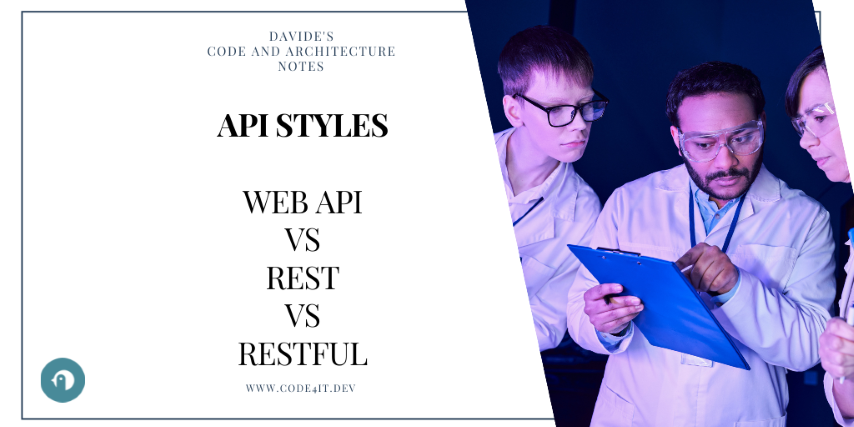
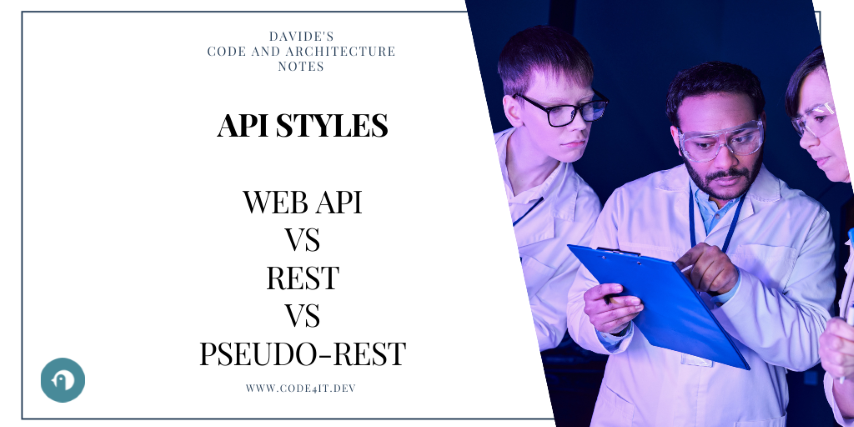
Fine bozza

Changed region(s): [[0.2131, 0.7916, 0.4871, 0.8525]]

diff --git a/content/architecture-note/013-webapi-vs-rest-vs-restful/index.md b/content/architecture-note/013-webapi-vs-rest-vs-restful/index.md
@@ -1,22 +1,25 @@
 ---
-title: "Davide's Code and Architecture Notes - Web APIs vs REST APIs vs RESTful APIs"
-date: 2024-07-23
-url: /architecture-notes/webapi-vs-rest-vs-restful
+title: "Davide's Code and Architecture Notes - Web APIs vs REST APIs vs pseudo-REST APIs"
+date: 2024-07-26
+url: /architecture-notes/webapi-vs-rest-vs-pseudo-rest
 draft: false
 categories:
-  - Code and Architecture Notes
+ - Code and Architecture Notes
 tags:
-  - Software Architecture
-  - API
+ - Software Architecture
+ - API
+ - REST
 toc: true
-summary: "When describing a web service, people often use the wrong terms. Are you really creating a REST API if all your operations are executed via POST?"
+summary: "When describing a web service, people often use the wrong terms. Are you really creating a REST API, or is it some sort of pseudo-REST? "
 images:
-  - /architecture-notes/webapi-vs-rest-vs-restful/featuredImage.png
+ - /architecture-notes/webapi-vs-rest-vs-pseudo-rest/featuredImage.png
 ---
 
-In a world full of acronyms and terms, some nuances can get lost.
+_The first version of this article contained a lot of misinterpretations of what REST means, including the fact that REST and RESTful are separate things. A huge thanks to [Andrea Chiarelli](https://www.linkedin.com/in/andreachiarelli/) for pointing it out. I had to rewrite the article almost thoroughly in order to remove all the confusion I tried to clear out, but instead, I helped spread._
 
-People claim they're developing REST APIs even though their APIs do not follow the REST principles. In the same way, people confuse RESTful APIs with plain REST APIs.
+In a world full of acronyms and terms, some nuances can get lost. 
+
+People claim they're developing REST APIs even though their APIs do not follow the REST principles. Maybe their APIs are inspired by REST principles, but they are still not REST APIs.
 
 In this article, we will explain the differences and similarities between the three approaches to exposing services and data over the network.
 
@@ -34,48 +37,63 @@ A specific type of API is the Web API: a **Web API** is an interface that allows
 
 In REST APIs, **everything revolves around the idea of a _resource_**: your APIs do not expose endpoints that represent generic operations (`/getItem`), but using a combination of URL and HTTP method, you can define everything you can do _with a resource_.
 
-A REST API is a specific type of Web API that adheres to some guidelines, such as:
+REST is an **architectural pattern** that, to be followed, requires you to follow some principles:
 
 - **Statelessness**: Each request from the client must contain all necessary information; **the server doesn't store the client state**. There is no context shared across different requests, making the system easier to scale and maintain.
 - **Cacheability**: Responses can be cached to improve performance. You can use the ETag header to understand whether the cache is valid.
 - **Resource-Based**: REST APIs expose resource operations via URL, and clients interact with these resources using standard HTTP methods. Each HTTP method has a specific meaning (so, put short, if you are using a POST to retrieve an entity's information, you are not adhering to the REST specification)
 - **Uniform Interface**: Resources are exposed via a consistent representation (using URLs). In general, you want your URLs to be structured like `/{resource-type}/{id}`; for example, information about the book with ID 555 should be retrieved at the URL `/book/555` (notice that it's `book`, singular, and not `books`).
-- **Operations via HTTP methods**: You must standard HTTP methods (GET, POST, PUT, DELETE) to represent the operations on a resource. For example, GET must be used to retrieve information, while DELETE to delete an entity. You must not use GET to delete a resource.
+- **Operations via HTTP methods**: You must use standard HTTP methods (GET, POST, PUT, DELETE) to represent the operations on a resource. For example, GET must retrieve information, while DELETE must be used delete an entity. You must not use GET to delete a resource.
 - **Scalability**: REST APIs are lightweight and scalable.
 
-REST is a guideline: you may then create a set of APIs that even partially follow these principles. Not the best idea, though.
+**REST is an acronym that means "REpresentational State Transfer"**. Let's focus on each word of the acronym. 
 
-## What are RESTful APIs?
+**"RE" stands for REpresentational**: this means that you are not accessing the resources directly, but you are referring to a **representation** of such entities. Working with representations and not with direct access allows you to decouple client and server, bringing also the benefit of scalability. 
 
-A **RESTful API** is a type of REST API that if **fully compliant with the REST principles**.
-
-So, we can say that a RESTful API has the following characteristics:
-
-- **Use all the HTTP Methods**: They use ALL the standard HTTP methods (GET, POST, PUT, PATCH, DELETE, HEAD, OPTIONS) to manipulate resources. Yes, even HEAD and OPTIONS.
-- **Resource-Oriented**: RESTful APIs focus on resources (entities) and their representations. You never expose a, for example `/update-address`, but you use the proper HTTP Method to manipulate the address value.
-- **Self-Descriptive**: Responses include metadata to describe the data. Such metadata can be about the media type, the ETag, and similar information that describe the operation and the resource referenced.
-- **HATEOAS**: Some RESTful APIs also include HATEOAS (_Hypermedia as the Engine of Application State_), allowing clients to navigate the API dynamically.
+**"ST" stands for State Transfer**: your APIs must include all the information to retrieve everything correlated to the resource in a self-explaining way. For example, suppose that you have a `GET /book/42`. This endpoint should return something like:
 
 
+```json
+{
+    "id": 42,
+    "title": "The Hitchhiker's Guide to the Galaxy",
+    "authorName": "Douglas Adams",
+    "publicationYear": 1979,
+    "genre": "comedy",
+    "links": [
+ {
+            "href": "https://api.mylibrary.com/book/42",
+            "rel": "self"
+ },
+ {
+            "href": "https://api.mylibrary.com/author/123",
+            "rel": "author"
+ },
+ {
+            "href": "https://api.mylibrary.com/genres/861",
+            "rel": "genre"
+ }
+ ]
+}
+```
 
-## Finding the differences between Web, REST, and RESTful APIs
+This list of endpoints stored in the `links` section allows clients to navigate to the details of the entities related to this book. These links form the so-called **HATEOAS** (_Hypermedia as the Engine of Application State_), and allow clients to navigate to all the entities related to the retrieved one without having previous knowledge of the other endpoints exposed by the system.
 
-Here's a table to highlight the key differences between Web APIs, REST APIs, and RESTful APIs:
+HATEOAS is a fundamental part of REST, since it allows clients to access the state of the resource (remember the "S" in "REST"?).
 
-| Aspect                   | Web API                                                                                   | REST API                                           | RESTful API                                        |
-| ------------------------ | ----------------------------------------------------------------------------------------- | -------------------------------------------------- | -------------------------------------------------- |
-| **Protocol**             | Typically uses HTTP or other protocols                                                    | Specifically uses HTTP/HTTPS                       | Specifically uses HTTP/HTTPS                       |
-| **Formats**              | Supports various data formats (e.g., JSON, XML)                                           | Primarily uses JSON or XML                         | Primarily uses JSON or XML                         |
-| **Design**               | Flexible design; not strictly adherent to REST principles                                 | Adheres to REST architectural constraints          | Adheres to all REST architectural constraints      |
-| **Customization**        | Provides a more customized experience. You can define any kind of operation needed.       | Lightweight and interchangeable in many situations | Lightweight and interchangeable in many situations |
-| **Complex Interactions** | Supports complex interactions with binary data                                            | Focused on simplicity and uniformity               | Focused on simplicity and uniformity               |
-| **Available operations** | Custom operations based on path name (or whatever is wanted)                              | Operations depend on the HTTP Method               | Operations depend on the HTTP Method               |
+## What are pseudo-REST APIs?
 
-In short, you'd better remember the following diagram:
+The harsh reality is that **most of us write pseudo-REST APIs**.
 
-![Web vs REST vs RESTful](./web-vs-rest-vs-restful.png)
+Most teams develop the usual type of APIs using some REST practices but do not thoroughly implement the architectural pattern.
 
+I bet most of you use HTTP Verbs to perform CRUD operations on your entity. 
 
+But I can also imagine that you don't implement HATEOAS and don't provide **content negotiation**.
+
+The truth is that you either create a REST API or you don't. There is no such thing as REST-ish API.
+
+![There is no such thing as pseudo-REST](yoda.png)
 
 ## Further readings
 
@@ -85,9 +103,14 @@ REST APIs were first described by Dr Roy Fielding in his doctorial dissertation.
 
 _This article first appeared on [Code4IT 🐧](https://www.code4it.dev/)_
 
-When you create a resource using RESTful APIs you should also return the reference to the details of the newly created resource. In ASP.NET, it's easy: you can use `CreatedAtAction` and `CreatedAtRoute`.
+When you create a resource using REST APIs you should also return the reference to the details of the newly created resource. In ASP.NET, it's easy: you can use `CreatedAtAction` and `CreatedAtRoute`.
 
 🔗 [Getting resource location with CreatedAtAction and CreatedAtRoute action results | Code4IT](https://www.code4it.dev/blog/createdatroute-createdataction/)
+
+[Andrea Chiarelli](https://www.linkedin.com/in/andreachiarelli/), who helped me understand that the first version of this article was wrong and misleading, wrote a great article explaining what REST really means. It's written in Italian, but I'm sure you'll be able to translate it using an online tool.
+
+🔗 [Tutti quanti voglion fare REST | Andrea Chiarelli](https://www.html.it/articoli/cos-e-rest-caratteristiche/)
+
 
 ## Wrapping up
 
@@ -100,3 +123,17 @@ I hope you enjoyed this article! Let's keep in touch on [Twitter](https://twitte
 Happy coding!
 
 🐧
+
+
+## A final personal note
+
+As I wrote at the beginning of this article, the first version of this blog post, instead of clarifying what is and what is not REST, helped spread misinformation.
+
+Unfortunately, online, there is so much content that explains that REST and RESTful APIs are separate things, some sort of "RESTful is a REST API with all the parts implemented", that I fell into the trap as well.
+
+**I apologize to all of you, my dear readers.** I will do my best to avoid a situation like this will happen again, studying even more before writing my articles.
+
+Again, a huge thank you to Andrea. I invite you to comment on my (and others') articles and videos to tell when we are wrong - one of the reasons I write is to clear my mind around certain topics, and having people correcting you is a great way to learn.
+
+Sorry again,
+Davide

diff --git a/content/article/2023/106-unit-tests-without-interfaces/index.md b/content/article/2023/106-unit-tests-without-interfaces/index.md
@@ -57,7 +57,7 @@ Well, I used to agree with this argument. I was used to mocking interfaces by us
 
 It's still a valid way, but my point here is that that's not the only one!
 
-One of the simplest trick is to mark your classes as `abstract`. But... this means you'll end up with every single class marked as abstract. Not the best idea.
+One of the simplest tricks is to mark your classes as `abstract`. But... this means you'll end up with every single class marked as abstract. Not the best idea.
 
 We have other tools in our belt!
 
@@ -137,7 +137,7 @@ public class NumbersRepository
 }
 ```
 
-Yes: **we can mark a method as `virtual` even if the class is concrete!**
+Yes, **we can mark a method as `virtual` even if the class is concrete!**
 
 Now, in our Unit Tests, we can create a subtype of `NumbersRepository` to have complete control of the `GetNumbers` method:
 

diff --git a/content/csharp-tip/029-observablecollection/index.md b/content/csharp-tip/029-observablecollection/index.md
@@ -69,7 +69,7 @@ You can **simplify the initialization by passing a collection in the constructor
 
 ## How to intercept changes to the underlying collection
 
-As we said, this data type implements `INotifyCollectionChanged`. Thanks to this interface, we can add **events handlers** to the `CollectionChanged` event and see what happens.
+As we said, this data type implements `INotifyCollectionChanged`. Thanks to this interface, we can add **event handlers** to the `CollectionChanged` event and see what happens.
 
 ```cs
 var collection = new ObservableCollection<string>(new string[] { "Mario", "Luigi", "Peach" });
